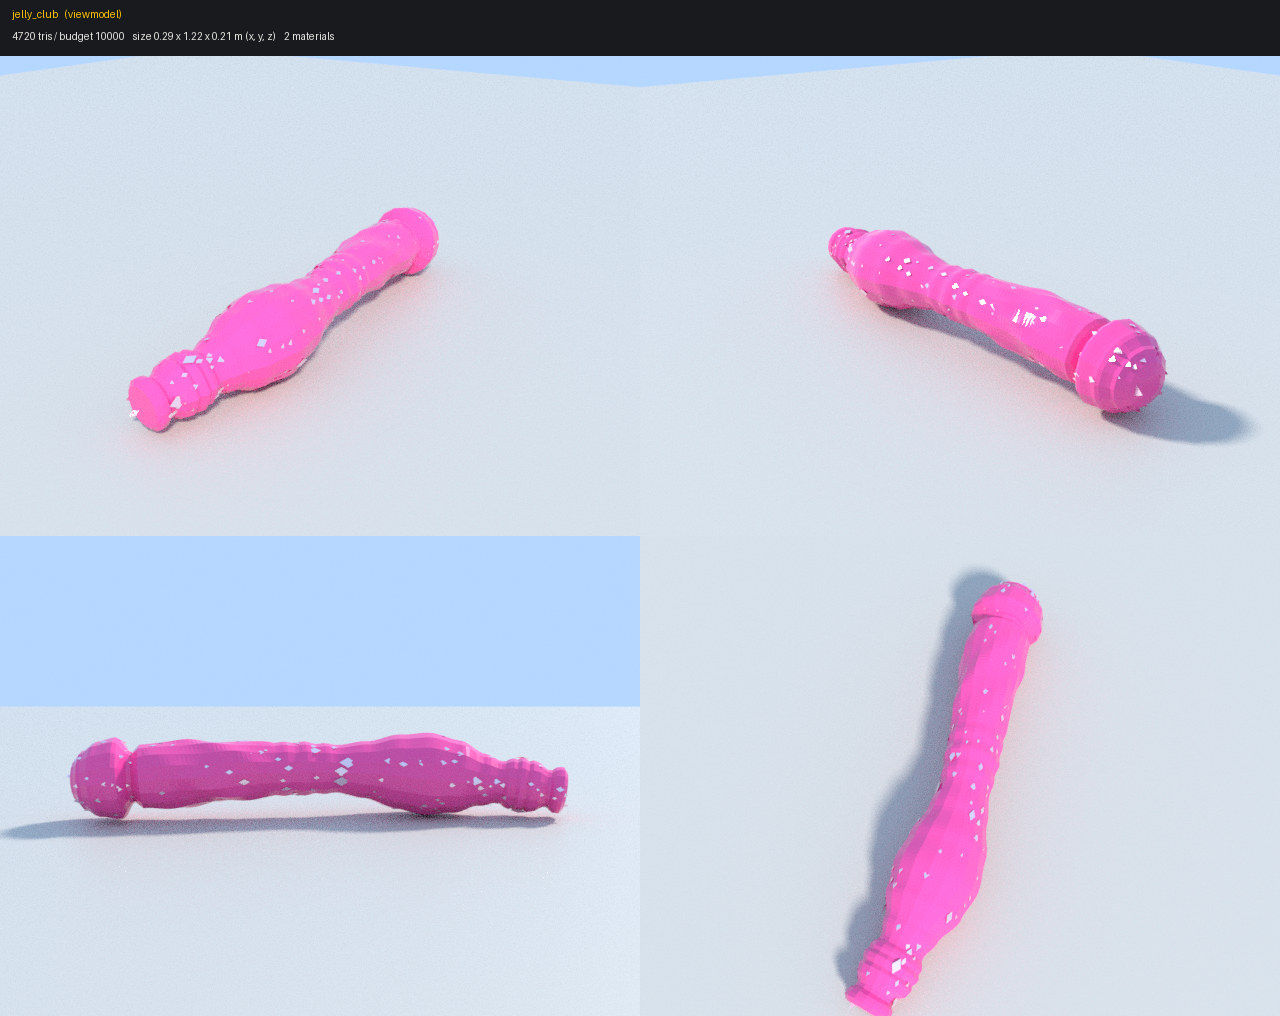
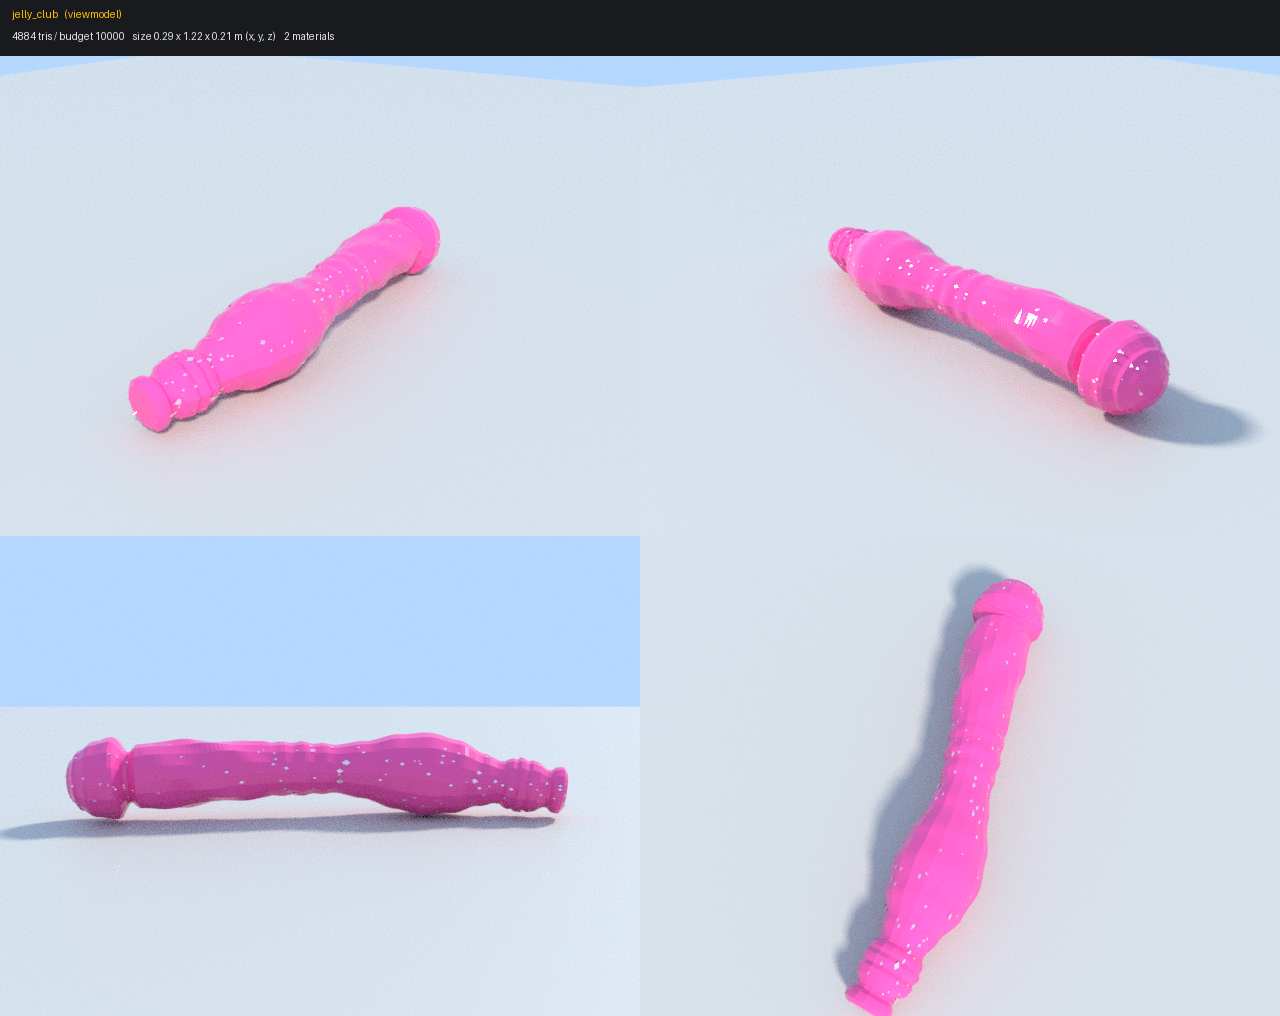
Shrink the club's glitter and tick the last F3 model checkboxes
The glitter flecks read as white shards in game, so they are about half the size
and more numerous (small 0.0085 -> 0.0048 m, large 0.016 -> 0.0085 m; 4,884 tris).
Tick "No alternating colors", "More rubbery look" and "No eyes" in the README,
confirmed by the owner in game.

Claude-Session: https://claude.ai/code/session_015HRZKPEsP2s5nR2Qy3okj2

diff --git a/tools/models/models/jelly_club.py b/tools/models/models/jelly_club.py
@@ -101,6 +101,6 @@ def build():
         t = i / (RINGS - 1)
         rings.append((_centre(t), _profile(t) + _rib(t)))
     geo.tube("jelly", rings, "jelly_pink", sides=SIDES, radius_fn=_ridges)
-    geo.sparkles("glitter", rings, "glitter", count=260, size=0.0085, seed=7, sides=SIDES)
-    geo.sparkles("glitter_big", rings, "glitter", count=22, size=0.016, seed=11, sides=SIDES, lift=0.003)
+    geo.sparkles("glitter", rings, "glitter", count=340, size=0.0048, seed=7, sides=SIDES)
+    geo.sparkles("glitter_big", rings, "glitter", count=24, size=0.0085, seed=11, sides=SIDES, lift=0.003)
     geo.join_all("jelly_club")

diff --git a/README.md b/README.md
@@ -277,10 +277,10 @@ Mostly vibe coded Godot game
 
 ### F3. Melee
 - [x] Chunky model with a glossy rubber material (new jelly club replaces the gummy worm: ribbed grip collar, fat knob, curved ringed shaft and a ridged head, one glossy pink material plus glitter flecks, shaped after the owner's reference photo; `tools/models/models/jelly_club.py` -> `assets/models/jelly_club.glb`, 2,600 tris, same reach and hand position as the worm, `RUBBER_MODEL_GLB = false` in `models.gd` brings the old worm back. It is one colour with no eyes, so the next checkboxes only need confirming in game. Waiting for your in-game check: open the project once so Godot imports the `.glb`, then look at the club in a run and in `tools/viewer/model_viewer.tscn`)
-- [ ] No alternating colors
-- [x] More detail (like the Dart gun) (flanged end with a groove, ribbed grip collar, two kinds of ridges on the shaft: rings low down and spiral ridges below the head, a moulded seam down one side, glitter in two sizes; 16-sided rings, 4,720 tris of the 10,000 budget; `geo.tube` now takes a `radius_fn` for ridges and seams; built on the jelly club branch; waiting for your in-game check, including whether the ridges read at swing distance)
-- [ ] More rubbery look
-- [ ] No eyes
+- [x] No alternating colors (the whole club is one glossy pink; the light and dark pink ribs of the old worm are gone; confirmed by the owner in game)
+- [x] More detail (like the Dart gun) (flanged end with a groove, ribbed grip collar, two kinds of ridges on the shaft: rings low down and spiral ridges below the head, a moulded seam down one side, glitter in two sizes; 16-sided rings, 4,884 tris of the 10,000 budget; `geo.tube` now takes a `radius_fn` for ridges and seams; built on the jelly club branch; waiting for your in-game check, including whether the ridges read at swing distance)
+- [x] More rubbery look (glossy jelly material with toon highlights and a pink rim glow, ridges and rings that bend with the wobble, a squash and stretch on every swing and a flash on every hit; confirmed by the owner in game)
+- [x] No eyes (the new club has none; confirmed by the owner in game)
 - [x] Rubbery wobble swing animation (the club bends against the swing, overshoots when the swing stops and rings down, with a small ripple and a little stretch while it whips: a vertex shader on the club driven by a spring, `update_jelly` and the `JELLY_*` tuning constants in `scripts/player.gd`, `RUBBER_SHADER` in `models.gd`; `RUBBER_WOBBLE = false` in `models.gd` keeps the club rigid. Written without running Godot, only parse-checked with gdtoolkit; waiting for your in-game check: the bend, how strong the bend and ring-down feel (it now rings for about two seconds, tune the `JELLY_*` constants), and that the colours and gloss match the plain model)
 - [x] Hit, deflect and phone-return feedback (a hit splashes pink jelly and the club shudders, squashes and flashes; a deflect throws a white, pink and gold flash and a harder shudder; a returned phone leaves a pink and gold trail and ends in a bigger smash and shake; `jelly_burst`, `deflect_burst` and `return_trail` in `effects.gd`, `jelly_kick` in `player.gd`, hooks in `swing`, `deflect_phone`, `update_returning_phone` and `strike_with_phone` in `combat.gd`; existing sounds, hit-stop, popups and score are unchanged. Written without running Godot, only parse-checked; waiting for your in-game check, including particle counts on the minimum-spec machine)
 
